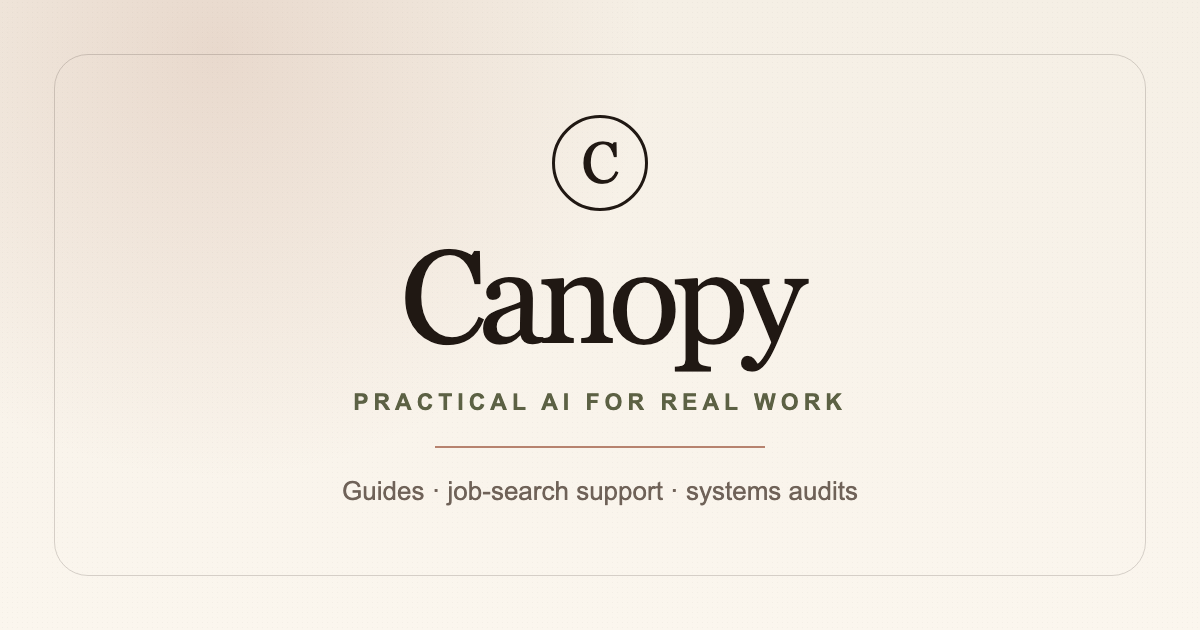
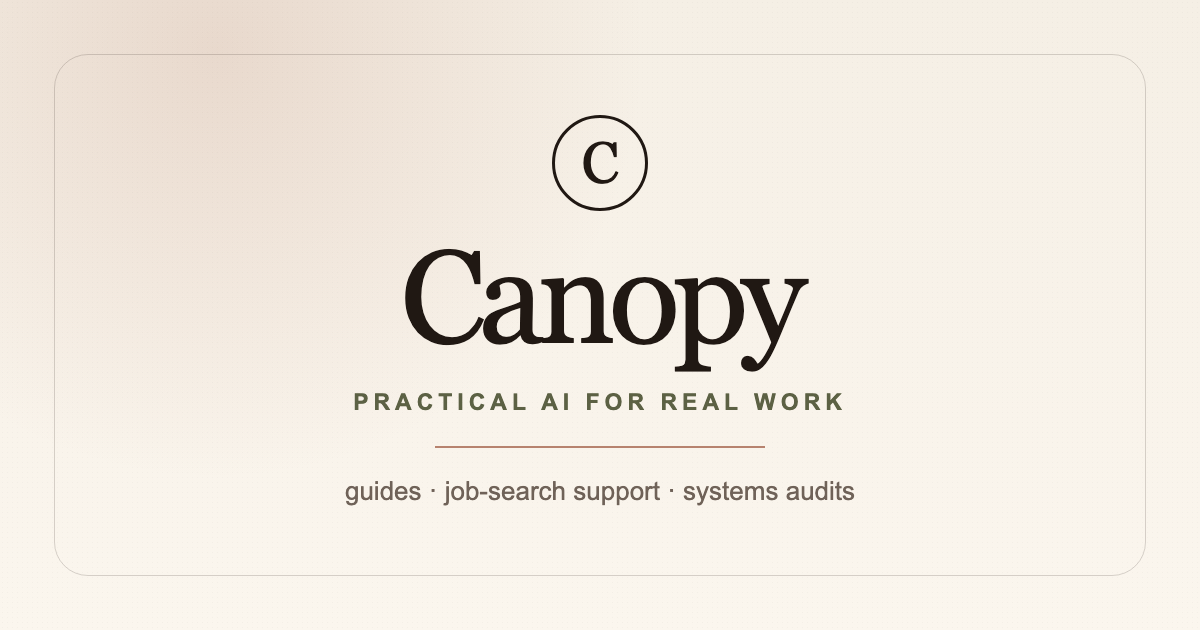
Polish Canopy copy spacing and audit section

Changed region(s): [[0.2775, 0.754, 0.7092, 0.8143]]

diff --git a/styles-v2.css b/styles-v2.css
@@ -165,6 +165,12 @@ h4 { font-size: 20px; line-height: 1.1; letter-spacing: -.02em; }
 .section-heading { display: grid; grid-template-columns: .75fr 1.25fr; gap: clamp(24px, 6vw, 70px); align-items: end; margin-bottom: 36px; }
 .section-heading.narrow { display: block; max-width: 760px; }
 .section-heading.narrow p:last-child { margin-top: 16px; font-size: 18px; }
+.paths-section .section-heading {
+  display: block;
+  max-width: 780px;
+  margin-bottom: 30px;
+}
+.paths-section .section-heading .eyebrow { margin-bottom: 10px; }
 
 .path-list { border-top: 1px solid var(--line); }
 .path-row {
@@ -233,9 +239,25 @@ h4 { font-size: 20px; line-height: 1.1; letter-spacing: -.02em; }
 .dark-panel { background: var(--espresso); color: var(--bone); }
 .dark-panel h2, .dark-panel h3, .dark-panel p, .dark-panel .eyebrow { color: var(--bone); }
 .dark-panel p { opacity: .76; }
-.dark-card { background: rgba(255, 250, 241, .06); border-color: var(--line-dark); box-shadow: none; }
-.chips { display: flex; flex-wrap: wrap; gap: 10px; margin: 24px 0; }
-.chips span { border: 1px solid var(--line-dark); border-radius: 999px; padding: 9px 12px; color: var(--bone); font-size: 14px; }
+.dark-card { background: transparent; border-color: rgba(255, 250, 241, .18); box-shadow: none; }
+.audit-card { padding: clamp(24px, 4vw, 38px); }
+.audit-card h3 { max-width: 680px; }
+.audit-list {
+  list-style: none;
+  padding: 0;
+  margin: 28px 0;
+  border-top: 1px solid rgba(255, 250, 241, .18);
+}
+.audit-list li {
+  display: grid;
+  grid-template-columns: 44px 1fr;
+  gap: 16px;
+  padding: 18px 0;
+  border-bottom: 1px solid rgba(255, 250, 241, .16);
+}
+.audit-list span { grid-row: 1 / span 2; color: var(--tan); font-family: "Instrument Serif", Georgia, serif; font-size: 28px; line-height: 1; }
+.audit-list strong { grid-column: 2; display: block; color: var(--bone); font-size: 17px; line-height: 1.25; }
+.audit-list em { grid-column: 2; display: block; margin-top: -10px; color: rgba(255, 250, 241, .68); font-style: normal; line-height: 1.55; }
 
 .about-section { display: grid; grid-template-columns: 380px 1fr; gap: clamp(34px, 7vw, 90px); align-items: center; }
 .founder-photo { margin: 0; position: relative; }

diff --git a/index.html b/index.html
@@ -48,7 +48,7 @@
       </div>
       <aside class="hero-note" aria-label="Canopy note">
         <p class="note-label">Start here</p>
-        <p>If you know AI matters but every tutorial makes you want to close the laptop, this is for you. We make the next step simple, useful, and not embarrassing.</p>
+        <p>If you know AI matters but every tutorial makes you want to close the laptop, this is for you. We make the next step simple, useful, and not frustrating.</p>
       </aside>
     </section>
 
@@ -124,11 +124,13 @@
         <h2>Canopy AI Systems Audit</h2>
         <p>For founders, HR teams, operators, and small business owners who know the repetitive work is costing them time, but do not want a giant AI transformation project.</p>
       </div>
-      <div class="detail-card dark-card">
-        <h3>We map 3-5 workflows and turn them into a simple plan.</h3>
-        <div class="chips">
-          <span>Hiring tasks</span><span>HR admin</span><span>SOPs</span><span>Email drafts</span><span>Onboarding</span><span>Knowledge systems</span>
-        </div>
+      <div class="detail-card dark-card audit-card">
+        <h3>We turn the messy work into a plain-English systems plan.</h3>
+        <ul class="audit-list">
+          <li><span>01</span><strong>Find the repeat work</strong><em>Hiring tasks, onboarding, HR admin, SOPs, inbox drafts, and knowledge capture.</em></li>
+          <li><span>02</span><strong>Choose what is worth automating</strong><em>No giant transformation project. Just the tasks that actually save time.</em></li>
+          <li><span>03</span><strong>Leave with a usable plan</strong><em>A simple map of what to build first, what to skip, and what can be delegated to AI.</em></li>
+        </ul>
         <p class="price-line">Beta: <strong>$297 for the first 3 audits</strong></p>
         <a class="button light-button" href="mailto:meetcanopy@gmail.com?subject=Canopy%20AI%20Systems%20Audit&body=Hi%20Stephanie%2C%20I%20want%20to%20book%20a%20Canopy%20AI%20Systems%20Audit.%0A%0AMy%20business%2Fteam%20needs%20help%20with%3A">Book an audit</a>
       </div>

diff --git a/canopy-og.html b/canopy-og.html
@@ -19,7 +19,7 @@
       <div class="name">Canopy</div>
       <div class="kicker">PRACTICAL AI FOR REAL WORK</div>
       <div class="rule"></div>
-      <div class="sub">Guides · job-search support · systems audits</div>
+      <div class="sub">guides · job-search support · systems audits</div>
     </section>
   </main>
 </body></html>
